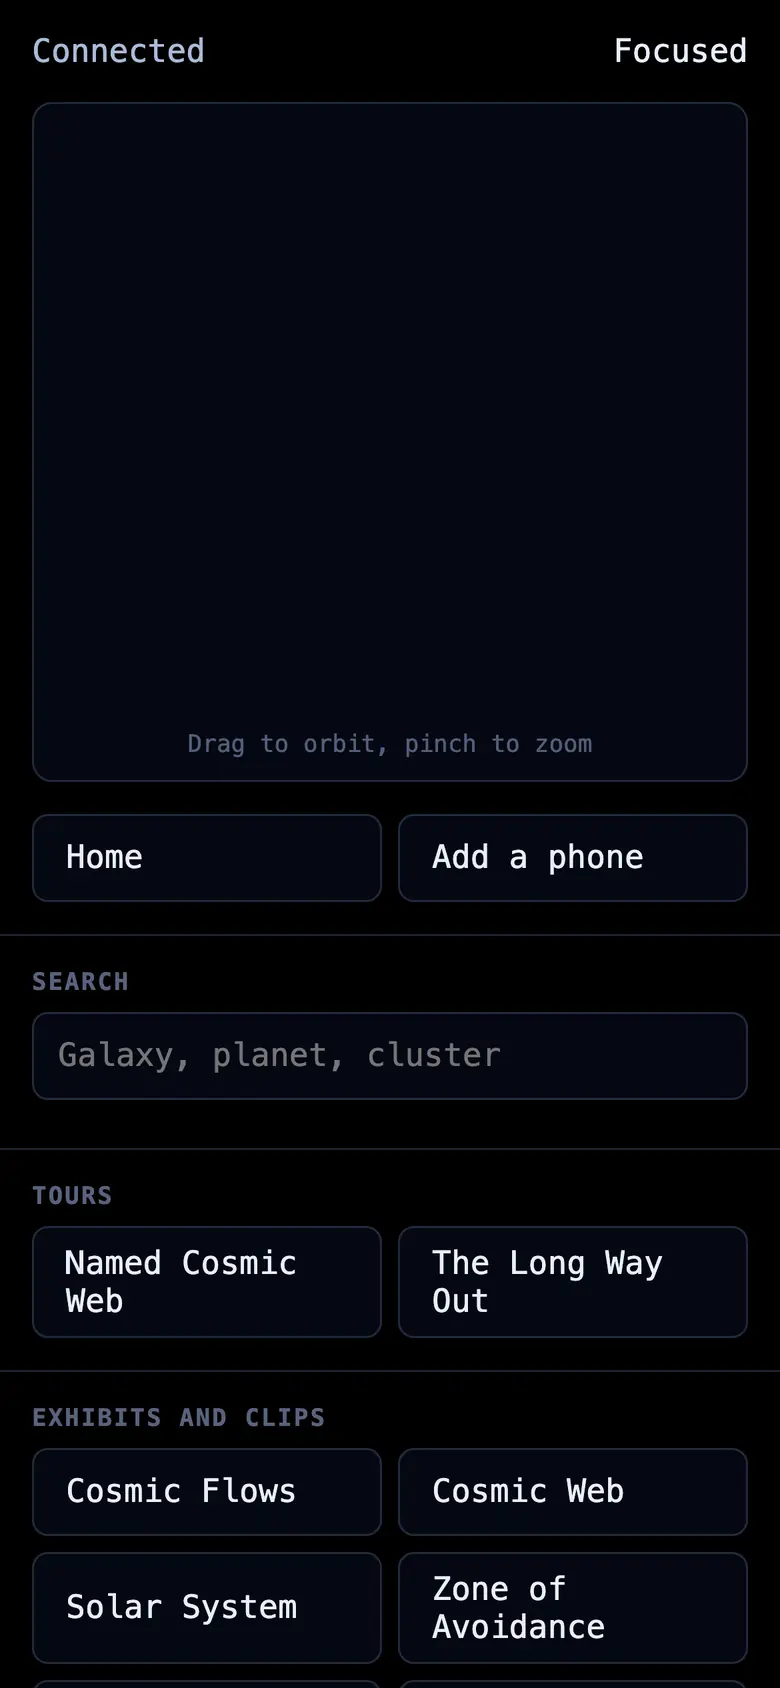
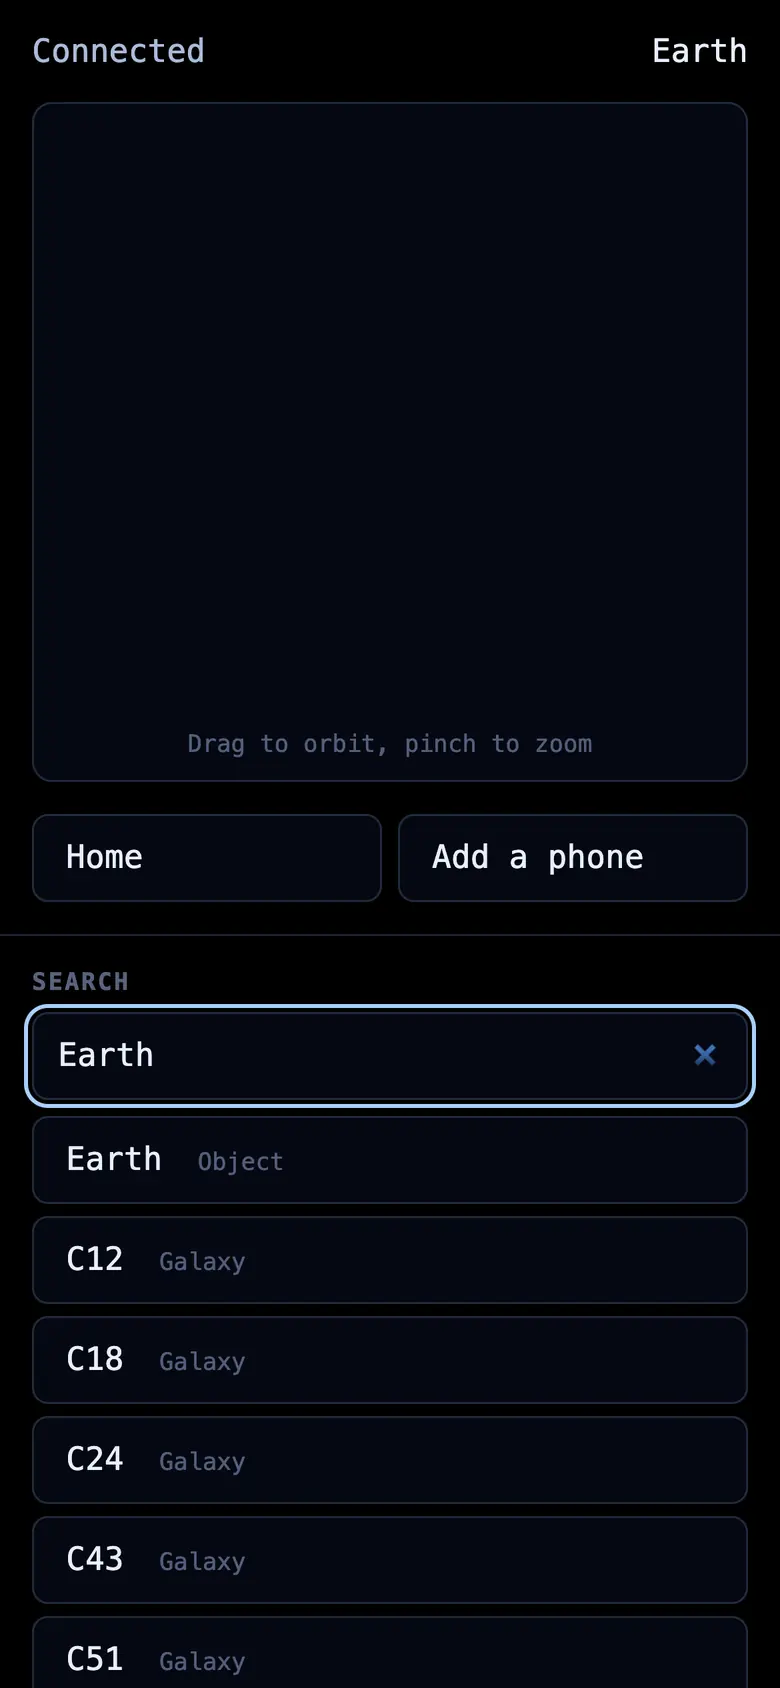
Website: on wide screens the phone remote lies over the dome film's bottom right, and the remote's header names Earth.

diff --git a/packages/website/src/components/RemoteDemo/RemoteDemo.tsx b/packages/website/src/components/RemoteDemo/RemoteDemo.tsx
@@ -1,6 +1,7 @@
 /*
- * RemoteDemo — the Domes section's picture: a film of a dome swinging round Earth beside a phone showing the
- * paired remote, with a finger on its drag pad that moves left and right as the film swings. The finger is
+ * RemoteDemo — the Domes section's picture: a film of a dome swinging round Earth with a phone showing the
+ * paired remote over its bottom right (below it where narrow), and a finger on the phone's drag pad that
+ * moves left and right as the film swings. The finger is
  * placed from the film's own `--turn` (see DiscFilm), so it cannot drift from the picture. The film's first
  * half turns the scene to the right, so that is when the finger goes right. Where the film does not play the
  * finger is hidden and the phone is a still.
@@ -18,11 +19,13 @@ function RemoteDemo({ sizes }: RemoteDemoProps) {
   return (
     <div ref={root} className={styles.root}>
       <FeatureFilm film="features-dome-remote" sizes={sizes} turnOn={root} />
-      <Phone3D shot="features-remote">
-        <span className={styles.pad} aria-hidden="true">
-          <span className={styles.finger} />
-        </span>
-      </Phone3D>
+      <div className={styles.phone}>
+        <Phone3D shot="features-remote">
+          <span className={styles.pad} aria-hidden="true">
+            <span className={styles.finger} />
+          </span>
+        </Phone3D>
+      </div>
     </div>
   );
 }

diff --git a/packages/website/src/@types/SiteShotSettings.ts b/packages/website/src/@types/SiteShotSettings.ts
@@ -39,7 +39,7 @@ export type SiteShotSettings = {
   debugPanel?: true;
   /** With `ui`: headings of the app's panels to click before the shot, in order (`Settings` itself where the panel starts folded). */
   open?: readonly string[];
-  /** With `query: 'dome'`: the dome opens with `?remote`, and the picture is a phone's remote page paired to it, not the dome. */
+  /** With `query: 'dome'`: the dome opens with `?remote`, and the picture is a phone's remote page paired to it, not the dome; `searchFor` is then typed into the remote's search, which is how its header gets the focused object's name. */
   remote?: true;
   /** Keep this part of the frame only, in the viewport's CSS pixels: a phone's cut of a wide interface shot. */
   crop?: { left: number; top: number; width: number; height: number };

diff --git a/packages/website/src/components/RemoteDemo/RemoteDemo.module.css b/packages/website/src/components/RemoteDemo/RemoteDemo.module.css
@@ -1,4 +1,5 @@
 .root {
+  position: relative;
   display: flex;
   flex-wrap: wrap;
   align-items: center;
@@ -9,6 +10,30 @@
 
   & > :first-child {
     flex: 0 1 21rem;
+  }
+}
+
+/* The phone's shadow keeps its edge apart from the stars it lies over. */
+.phone {
+  filter: drop-shadow(0 0.5rem 1.5rem rgb(0 0 0 / 0.6));
+}
+
+/* In the page's two-column layout the disc fills its column and the phone lies over its bottom right. */
+@media (min-width: 901px) {
+  .root {
+    display: block;
+    --film-width: 100%;
+    --phone-width: min(11rem, 17vw);
+
+    & > :first-child {
+      flex: none;
+    }
+  }
+
+  .phone {
+    position: absolute;
+    right: 0;
+    bottom: 0;
   }
 }
 

diff --git a/tools/site/utils/shootPairedRemote.ts b/tools/site/utils/shootPairedRemote.ts
@@ -22,5 +22,14 @@ export async function shootPairedRemote(dome: Page, base: string, shot: SiteShot
     .getByRole('status')
     .filter({ hasText: /^Connected$/ })
     .waitFor({ timeout: CONNECT_TIMEOUT_MS });
+  // The remote only learns the focused object's name from a search result, so a search names it in the header.
+  const name = shot.settings?.searchFor;
+  if (name) {
+    await phone.getByRole('searchbox', { name: 'Search the sky' }).fill(name);
+    await phone
+      .locator('header')
+      .getByText(name, { exact: true })
+      .waitFor({ timeout: CONNECT_TIMEOUT_MS });
+  }
   return phone.screenshot({ type: 'png' });
 }

diff --git a/tools/site/shootSiteShots.ts b/tools/site/shootSiteShots.ts
@@ -73,7 +73,7 @@ try {
         await openSiteShot(page, base!, shot);
         if (warnCheckout) await warnIfWrongCheckout(page);
         warnCheckout = false;
-        if (shot.settings?.searchFor !== undefined) {
+        if (shot.settings?.searchFor !== undefined && !shot.settings.remote) {
           await page.keyboard.press('/');
           await page.keyboard.type(shot.settings.searchFor, { delay: KEY_DELAY_MS });
           await page.waitForTimeout(RESULTS_SETTLE_MS);

diff --git a/packages/website/src/data/siteShots.ts b/packages/website/src/data/siteShots.ts
@@ -302,7 +302,7 @@ export const SITE_SHOTS: readonly SiteShot[] = [
     id: 'features-remote',
     link: `focus=body-earth&${NOON}&pose=a,0,0,0,6.14,0.2,4.6e-16,0`,
     query: 'dome',
-    settings: { ...SUBJECT, remote: true, settleMs: 4000 },
+    settings: { ...SUBJECT, remote: true, searchFor: 'Earth', settleMs: 4000 },
     size: { width: 390, height: 844 },
     dpr: 3,
     widths: [780],
